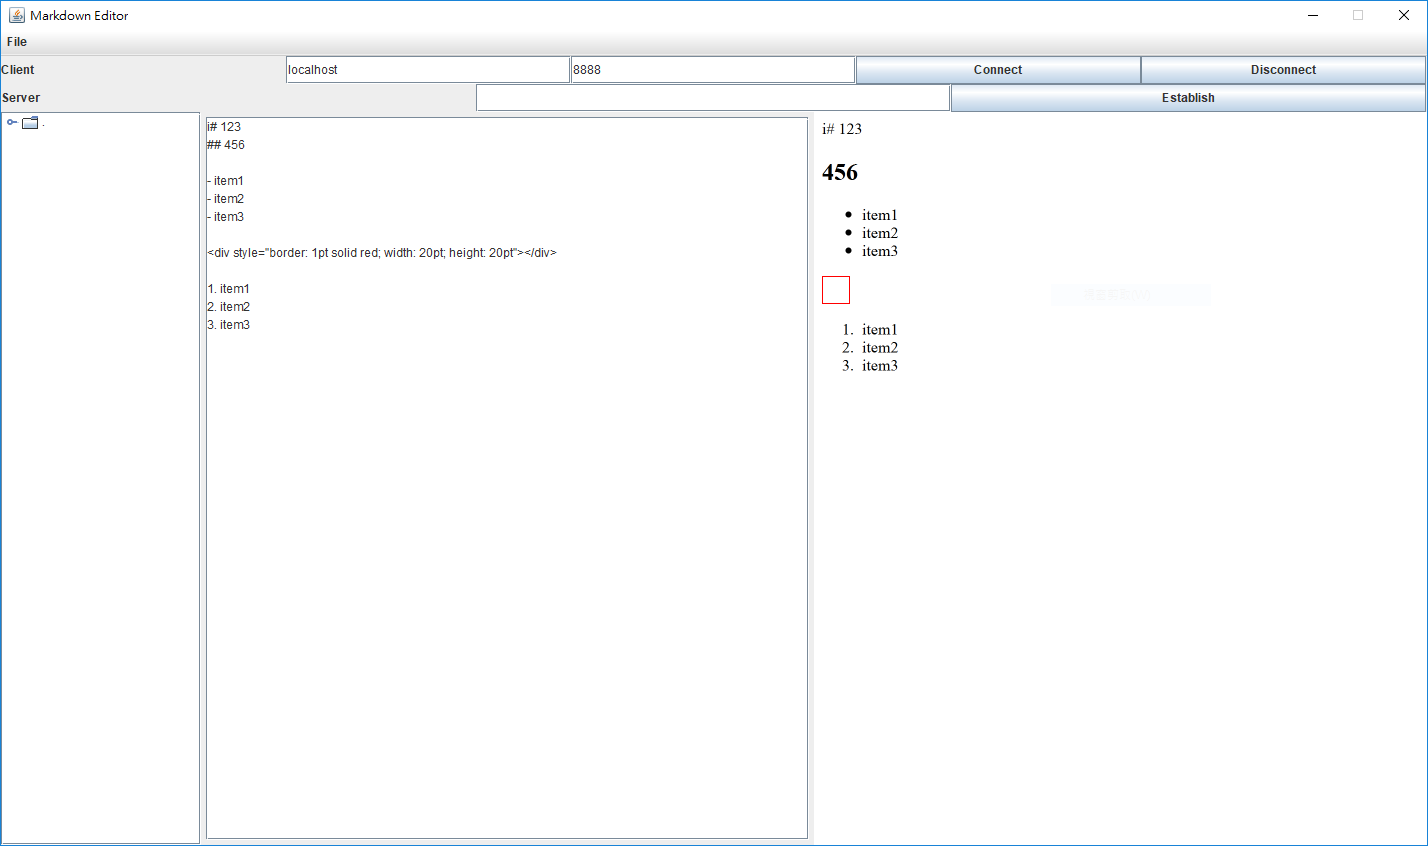
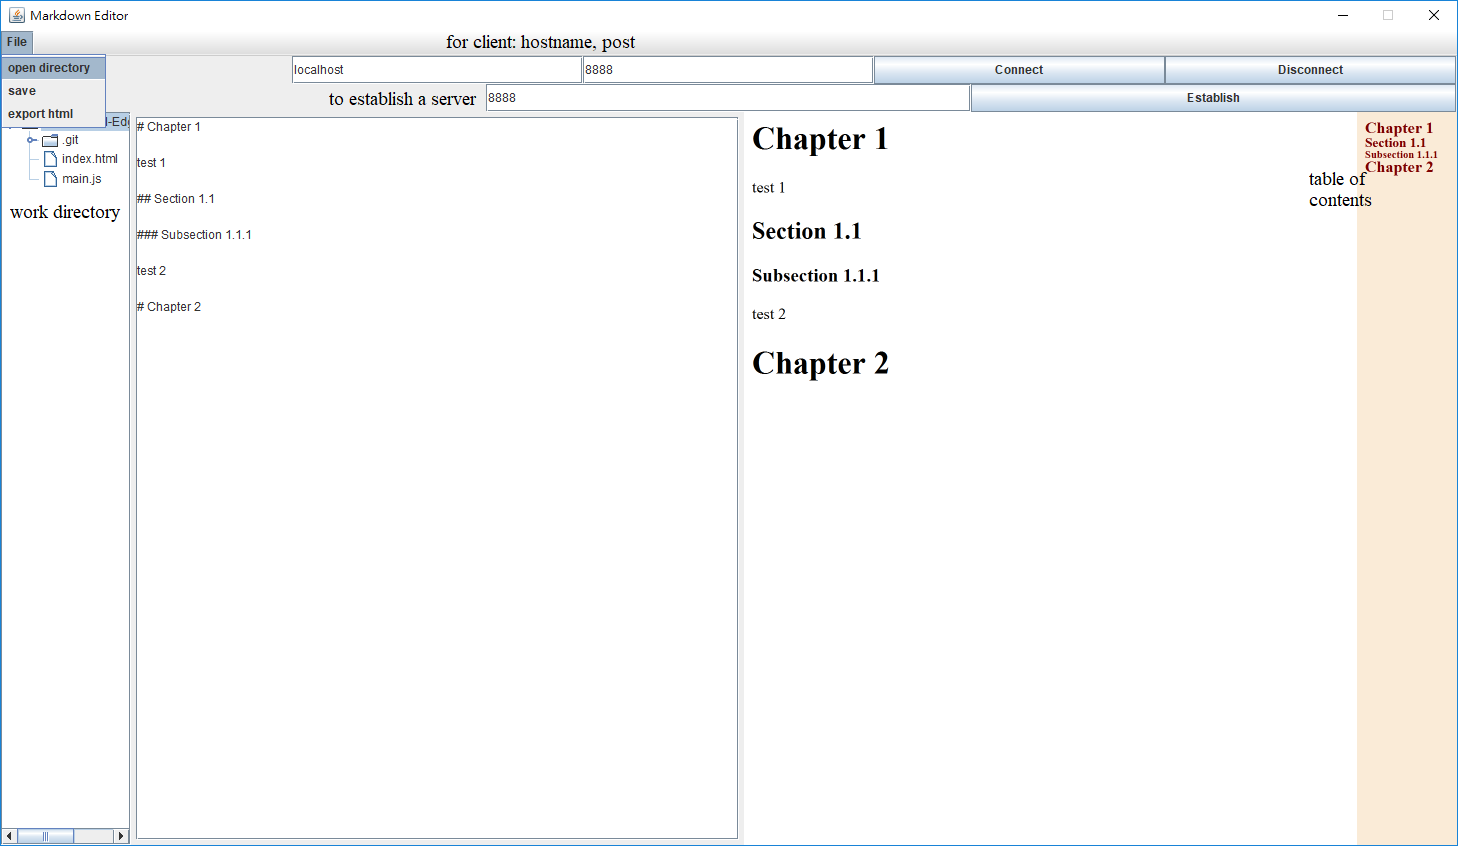
add table of contents

diff --git a/src/main/java/com/hanyi/markdown/view/ContentsPanel.java b/src/main/java/com/hanyi/markdown/view/ContentsPanel.java
@@ -1,0 +1,47 @@
+package com.hanyi.markdown.view;
+
+import javafx.application.Platform;
+import javafx.embed.swing.JFXPanel;
+import javafx.scene.Scene;
+import javafx.scene.web.WebView;
+import javax.swing.SwingUtilities;
+
+public class ContentsPanel extends JFXPanel {
+
+  private WebView webView;
+
+  public ContentsPanel() {
+    this.setSceneLater();
+  }
+
+  private void setSceneLater() {
+    final ContentsPanel panel = this;
+    Platform.runLater(new Runnable() {
+      @Override
+      public void run() {
+        webView = new WebView();
+        panel.setScene(new Scene(webView));
+        ((MainFrame) SwingUtilities.getRoot(panel)).pack();
+      }
+    });
+  }
+
+  public void updateContent(final String html) {
+    final String style = "<style>"
+        + "body { background: antiquewhite; color: maroon; }"
+        + "h1, h2, h3, h4, h5, h6 { margin: 0; padding: 0; line-height: 100%; }"
+        + "h1 { font-size: 12pt; }"
+        + "h2 { font-size: 10pt; }"
+        + "h3 { font-size: 8pt; }"
+        + "h4 { font-size: 8pt; }"
+        + "h5 { font-size: 8pt; }"
+        + "h6 { font-size: 8pt; }"
+        + "</style>";
+    Platform.runLater(new Runnable() {
+      @Override
+      public void run() {
+        webView.getEngine().loadContent(style + html);
+      }
+    });
+  }
+}

diff --git a/src/main/java/com/hanyi/markdown/view/MainFrame.java b/src/main/java/com/hanyi/markdown/view/MainFrame.java
@@ -16,6 +16,7 @@ public class MainFrame extends JFrame {
   private TextAreaPanel textAreaPanel;
   private MenuBar menuBar;
   private WebPanel webPanel;
+  private ContentsPanel contentsPanel;
   private FilePanel filePanel;
 
   public MainFrame(String title, Text text, TextFile textFile) {
@@ -47,10 +48,19 @@ public class MainFrame extends JFrame {
     final Dimension textAreaSize = this.textAreaPanel.getSize();
 
     // add web (preview) panel
-    this.webPanel = new WebPanel(text);
+    this.contentsPanel = new ContentsPanel();
+    this.contentsPanel.setPreferredSize(new Dimension(100, textAreaSize.height));
+    this.webPanel = new WebPanel(text, this.contentsPanel);
     this.webPanel.setPreferredSize(textAreaSize);
-    this.add(this.webPanel, BorderLayout.EAST);
+//    this.add(this.webPanel, BorderLayout.EAST);
+//    this.pack();
+    JPanel right = new JPanel();
+    right.setLayout(new BorderLayout());
+    right.add(this.webPanel, BorderLayout.WEST);
+    right.add(this.contentsPanel, BorderLayout.EAST);
+    this.add(right, BorderLayout.EAST);
     this.pack();
+
 
     // add file panel
     this.filePanel = new FilePanel(textFile);

diff --git a/src/main/java/com/hanyi/markdown/view/WebPanel.java b/src/main/java/com/hanyi/markdown/view/WebPanel.java
@@ -9,13 +9,19 @@ import javax.swing.SwingUtilities;
 import org.commonmark.node.Node;
 import org.commonmark.parser.Parser;
 import org.commonmark.renderer.html.HtmlRenderer;
+import org.jsoup.Jsoup;
+import org.jsoup.nodes.Document;
+import org.jsoup.nodes.Element;
+import org.jsoup.select.Elements;
 
 public class WebPanel extends JFXPanel {
 
   private Text text;
   private WebView webView;
+  private ContentsPanel contentsPanel;
 
-  public WebPanel(Text text) {
+  public WebPanel(Text text, ContentsPanel contentsPanel) {
+    this.contentsPanel = contentsPanel;
     this.text = text;
     this.text.setWebPanel(this);
     this.setSceneLater();
@@ -44,5 +50,14 @@ public class WebPanel extends JFXPanel {
         webView.getEngine().loadContent(html);
       }
     });
+
+    getTableOfContent(html);
+  }
+
+  private void getTableOfContent(String html) {
+    Document document = Jsoup.parse(html);
+    Element body = document.body();
+    Elements headers = body.select("h1, h2, h3, h4, h5, h6");
+    contentsPanel.updateContent(headers.outerHtml());
   }
 }

diff --git a/src/main/java/com/hanyi/markdown/Config.java b/src/main/java/com/hanyi/markdown/Config.java
@@ -3,6 +3,6 @@ package com.hanyi.markdown;
 public class Config {
   public final static int TEXT_AREA_ROWS = 40;
   public final static int TEXT_AREA_COLUMNS = 60;
-  public final static int FILE_PANEL_WIDTH = 200;
+  public final static int FILE_PANEL_WIDTH = 130;
   public final static String DEFAULT_PATH = "./";
 }

diff --git a/README.md b/README.md
@@ -17,13 +17,6 @@ https://github.com/chanhanyi0923/markdown/releases/download/1.0/MarkdownEditor.j
 ![demo1](demo1.png)
 
 
-![demo2](demo2.png)
-
-
-![demo3](demo3.png)
-
-
-
 ## 功能简述
 
 依照课程要求，本次作业实现了以下功能：
@@ -94,7 +87,9 @@ Apache的VFS(Virtual File System, 虚拟文件系统)类实现了```FileChangeEv
 
 JavaFX提供了一个元件```WebView```，可以实现简单的HTML渲染，每次内容更新之後也一并更新```WebView```的内容。
 
+3. 建立实时文档目录
 
+每次更新完```WebView```顺便用```jsoup```把渲染出的html用selector选h1到h6，放到第二个WebView。
 
 ## 第三方库
 
